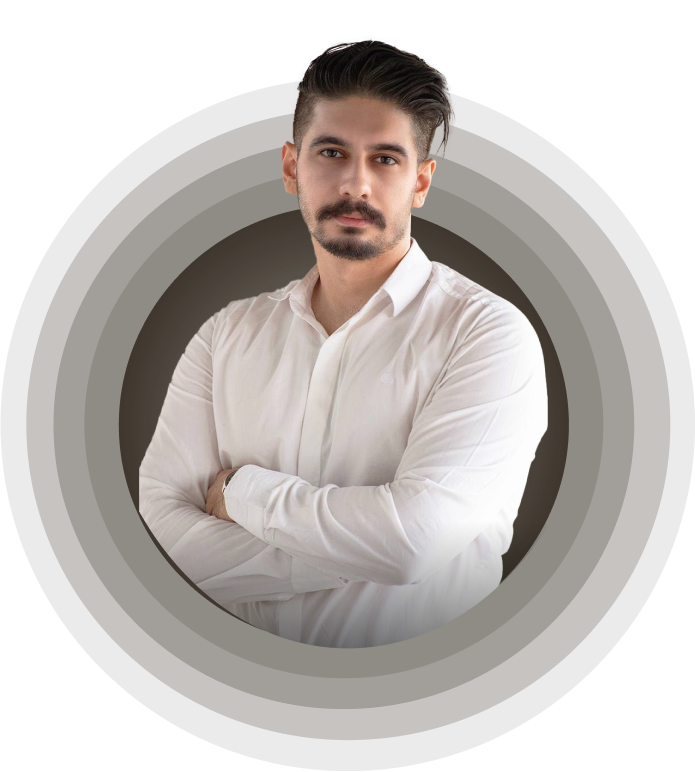
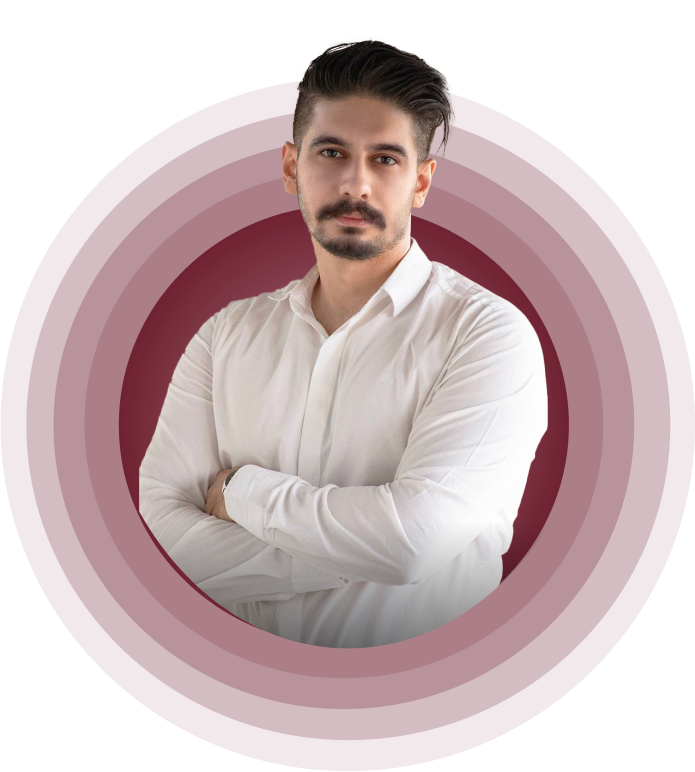
change background color and add title

Changed region(s): [[0.1209, 0.2176, 0.8763, 0.9016]]

diff --git a/src/components/Home.jsx b/src/components/Home.jsx
@@ -3,29 +3,44 @@ import { HiArrowRight } from 'react-icons/hi';
 import profileImg from '../assests/profileImg.png';
 import mobileviewProfile from '../assests/f4.png';
 import { Link } from 'react-scroll';
+import Typewriter from 'typewriter-effect';
+import mobileviewProfileHovered from '../assests/Grouvp 4.png';
 
 const Home = () => {
   return (
-    <div name='home' className='w-full h-screen bg-[#776B5D] '>
+    <div name='home' className='w-full h-screen bg-[#1a1a1a] '>
       <div className='max-w-[1000px] mx-auto px-8 flex flex-col justify-center h-full  pt-[400px] sm:pt-0 '>
         <p className='text-xl sm:text-xl text-white '>Hello,</p>
         <h1 className='text-3xl sm:7xl font-bold text-white z-10'>I`m AmirMohammad Khodabande</h1>
-        <h2 className='text-3xl sm:7xl font-bold text-[#EBE3D5] z-10'>Front-end developer</h2>
+        <h2 className='text-3xl sm:7xl font-bold text-[#c3073f] z-10'>
+        <Typewriter
+  options={{
+    strings: ['Front-end Developer', 'Web Developer' , 'Web Designer'],
+    autoStart: true,
+    loop: true,
+  }}
+/>
+        </h2>
         <p className='md:text-[#F3EEEA] text-sm py-2 max-w-[700px] z-10 hidden sm:flex '>As a hard-working newbie in the field of web development 💻,<br /> I possess a strong foundation in HTML, CSS, and JavaScript , Now I'm on track to develop my skills</p>
-      <div className='z-10'>
+      <div className='z-10 flex items-center'>
         <Link to='work' smooth={true} duration={500} >
-      <button className='text-white group mt-4 border-white border-2 px-4 py-2 flex justify-center items-center hover:bg-[#cc5c00] hover:border-[#cc5c00]'
+      <button className='text-white group mt-4 border-white border-2 px-4 py-2 flex justify-center items-center rounded-full hover:bg-[#c3073f] hover:border-[#c3073f]'
        >View Work
-          <span className='group-hover:translateX-90 ' >
-            <HiArrowRight className='ml-3'/>
-          </span>
         </button>
+          </Link>
+          <Link>
+          <button className='text-white border-white border-2 py-2 mt-4 px-4 mx-2 rounded-full  hover:bg-[#c3073f] hover:border-[#c3073f]'>
+            Hire Me
+          </button>
           </Link>
       </div>
       </div>
       <div className=''>
         <a href=""><img className='absolute top-10 sm:top-0 sm:right-40 hidden sm:flex  sm:h-screen z-0 ' src={profileImg} alt="" /></a>
-        <a href=""><img className='absolute top-24 sm:top-0 sm:right-40 flex sm:hidden  sm:h-screen z-0 ' src={mobileviewProfile} alt="" /></a>
+        <a href=""><img className='absolute top-24 sm:top-0 sm:right-40 flex sm:hidden  sm:h-screen  z-0 hover:opacity-0 ' src={mobileviewProfile} alt="" /></a>
+        <a href=""><img className='absolute top-24 sm:top-0 sm:right-40 flex sm:hidden  sm:h-screen  z-0 opacity-0 hover:opacity-50' src={mobileviewProfileHovered} alt="" /></a>
+      
+        
       </div>
 
     </div>

diff --git a/src/components/Contact.jsx b/src/components/Contact.jsx
@@ -2,16 +2,16 @@ import React from 'react'
 
 function Contact() {
   return (
-    <div name='contact' className='w-full  h-screen bg-[#776B5D] flex justify-center items-center p-4'>
+    <div name='contact' className='w-full  h-screen bg-[#6f2232] sm:bg-[#1a1a1a] flex justify-center items-center p-4'>
       <form method='POST' action="https://getform.io/f/nelJZ6bK" className='flex flex-col max-w-[600px] w-full'>
         <div className='pb-8'>
-          <p className='text-4xl font-bold inline border-b-4 border-[#cc5c00] text-gray-300'>Contact</p>
+          <p className='text-4xl font-bold inline border-b-4 border-[#6f2232] text-gray-300'>Contact</p>
           <p className='text-gray-300 py-4'>// Submit the form below or shoot me an email</p>
         </div>
         <input className='p-2 bg-[#ccd6f6]' type="text" placeholder='Name' name='name' />
         <input className='my-4 p-2 bg-[#ccd6f6]' type="email" placeholder='Email' name='email' />
         <textarea className='p-2 bg-[#ccd6f6]' name="message" rows="10" placeholder='Message'></textarea>
-        <button className= 'text-white border-2 hover:bg-[#cc5c00] hover:border-[#cc5c00] px-4 py-3 mx-auto mt-4 flex items-center'>Let's Collaborate</button>
+        <button className= 'text-white border-2 hover:bg-[#6f2232] hover:border-[#6f2232] px-4 py-3 mx-auto mt-4 flex items-center'>Let's Collaborate</button>
       </form>
 
     </div>

diff --git a/src/components/navbar.jsx b/src/components/navbar.jsx
@@ -13,25 +13,25 @@ const Navbar = () => {
 
   return (
     
-    <div name='navbar' className='w-full h-[80px] fixed flex justify-between items-center px-5 bg-[#3f372e] text-gray-300 z-20'>
+    <div name='navbar' className='w-full h-[80px] fixed flex justify-between items-center px-5 bg-[#6f2232] text-gray-300 z-20'>
       <img src={logo} alt="" style={{width:'50px'}}/>
 
       
       <ul className='hidden md:flex'>
       
-        <li><Link  to="home" smooth={true} duration={500} >
+        <li ><Link className='hover:border-b-2 pb-2' to="home" smooth={true} duration={500} >
       Home
       </Link></li>
-        <li><Link  to="about" smooth={true} duration={500} >
+        <li><Link className='hover:border-b-2 pb-2' to="about" smooth={true} duration={500} >
       About
       </Link></li>
-        <li><Link  to="skills" smooth={true} duration={500} >
+        <li><Link className='hover:border-b-2 pb-2' to="skills" smooth={true} duration={500} >
       Skills
       </Link></li>
-        <li><Link  to="work" smooth={true} duration={500} >
+        <li><Link className='hover:border-b-2 pb-2' to="work" smooth={true} duration={500} >
       Work
       </Link></li>
-        <li><Link  to="contact" smooth={true} duration={500} >
+        <li><Link className='hover:border-b-2 pb-2' to="contact" smooth={true} duration={500} >
       Contact
       </Link></li>
       </ul>

diff --git a/src/components/About.jsx b/src/components/About.jsx
@@ -2,11 +2,11 @@ import React from 'react';
 
 const About = () => {
   return (
-    <div name='about' className='w-full h-screen bg-[#776B5D] text-gray-300'>
-      <div className='flex flex-col justify-center items-center w-full h-full'>
+    <div name='about' className='w-full h-screen bg-[#6f2232] text-gray-300 mb-20 sm:mb-0'>
+      <div className='flex flex-col justify-center items-center w-full h-full '>
         <div className='max-w-[1000px] w-full px-4 grid grid-cols-2 gap-8'>
           <div className='sm:text-right pb-8 '>
-          <p className='text-4xl font-bold  inline border-b-4 border-[#cc5c00]'>
+          <p className='text-4xl font-bold  inline border-b-4 border-[#1a1a1a]'>
             About
           </p>
           </div>

diff --git a/src/components/Skills.jsx b/src/components/Skills.jsx
@@ -13,10 +13,10 @@ import Mongo from '../assests/mongo.png';
 
 const Skills = () => {
   return (
-    <div name='skills' className='w-full h-screen bg-[#776B5D] text-gray-300 '>
+    <div name='skills' className='w-full h-screen bg-[#6f2232] sm:bg-[#1a1a1a] text-gray-300 '>
       <div className='max-w-[1000px] mx-auto p-4 flex flex-col justify-center w-full h-full'>
         <div>
-          <p className='text-4xl font-bold inline border-b-4 border-[#cc5c00] '>Skills</p>
+          <p className='text-4xl font-bold inline border-b-4 border-[#6f2232] '>Skills</p>
           <p className='py-4'>These are the technologies I've worked with</p>
         </div>
         <div className='w-full grid grid-cols-2 sm:grid-cols-4 gap-4 text-center py-8'>

diff --git a/src/components/Work.jsx b/src/components/Work.jsx
@@ -8,10 +8,10 @@ import netflix from '../assests/project/netflix.png';
 
 const Work = () => {
   return (
-    <div name='work' className='w-full text-gray-300 md:h-screen bg-[#776B5D] pt-20'>
+    <div name='work' className='w-full text-gray-300 h-screen bg-[#6f2232] pt-[100px] sm:pt-0 mb-[1200px] sm:mb-0'>
       <div className='max-w-[1000px] mx-auto p-4 flex flex-col judtify-center w-full h-full'>
-      <div className='pb-8'>
-        <p className='text-4xl font-bold inline border-b-4 text-gray-300 border-[#cc5c00]'>Works</p>
+      <div>
+        <p className='text-4xl font-bold inline border-b-4 text-gray-300 border-[#1a1a1a]'>Works</p>
         <p className='py-6'>Check out Some Of My Recent Works</p>
       </div>
 {/* container */}

diff --git a/src/components/Footer.jsx b/src/components/Footer.jsx
@@ -2,7 +2,7 @@ import React from 'react'
 
 function Footer() {
   return (
-    <div name="Footer" className='w-full h-[40px] bg-[#3f372e] flex items-center justify-center'>
+    <div name="Footer" className='w-full h-[40px] bg-[#6f2232] flex items-center justify-center'>
       <p className='text-white text-xl'>&copy; <span className='text-sm'>AmirMohammad Khodanande</span></p>
     </div>
   )

diff --git a/src/index.css b/src/index.css
@@ -15,6 +15,10 @@
   }
 }
 
+body{
+  background: #6f2232;
+}
+
 .content-div {
   background-repeat: no-repeat;
   background-size: cover;
@@ -23,15 +27,13 @@
   
 }
 
-body {
-  background: #776B5D;
-}
+
 
 .content-div:hover {
   background-image: linear-gradient(
     to right,
-    #cc5c00,
-    #9c7351
+    #6f2232,
+    #c3073f
   )!important;
   
 }

diff --git a/public/index.html b/public/index.html
@@ -24,7 +24,7 @@
       work correctly both with client-side routing and a non-root public URL.
       Learn how to configure a non-root public URL by running `npm run build`.
     -->
-    <title>React App</title>
+    <title>AmirMohammad khodabande</title>
   </head>
   <body>
     <noscript>You need to enable JavaScript to run this app.</noscript>
